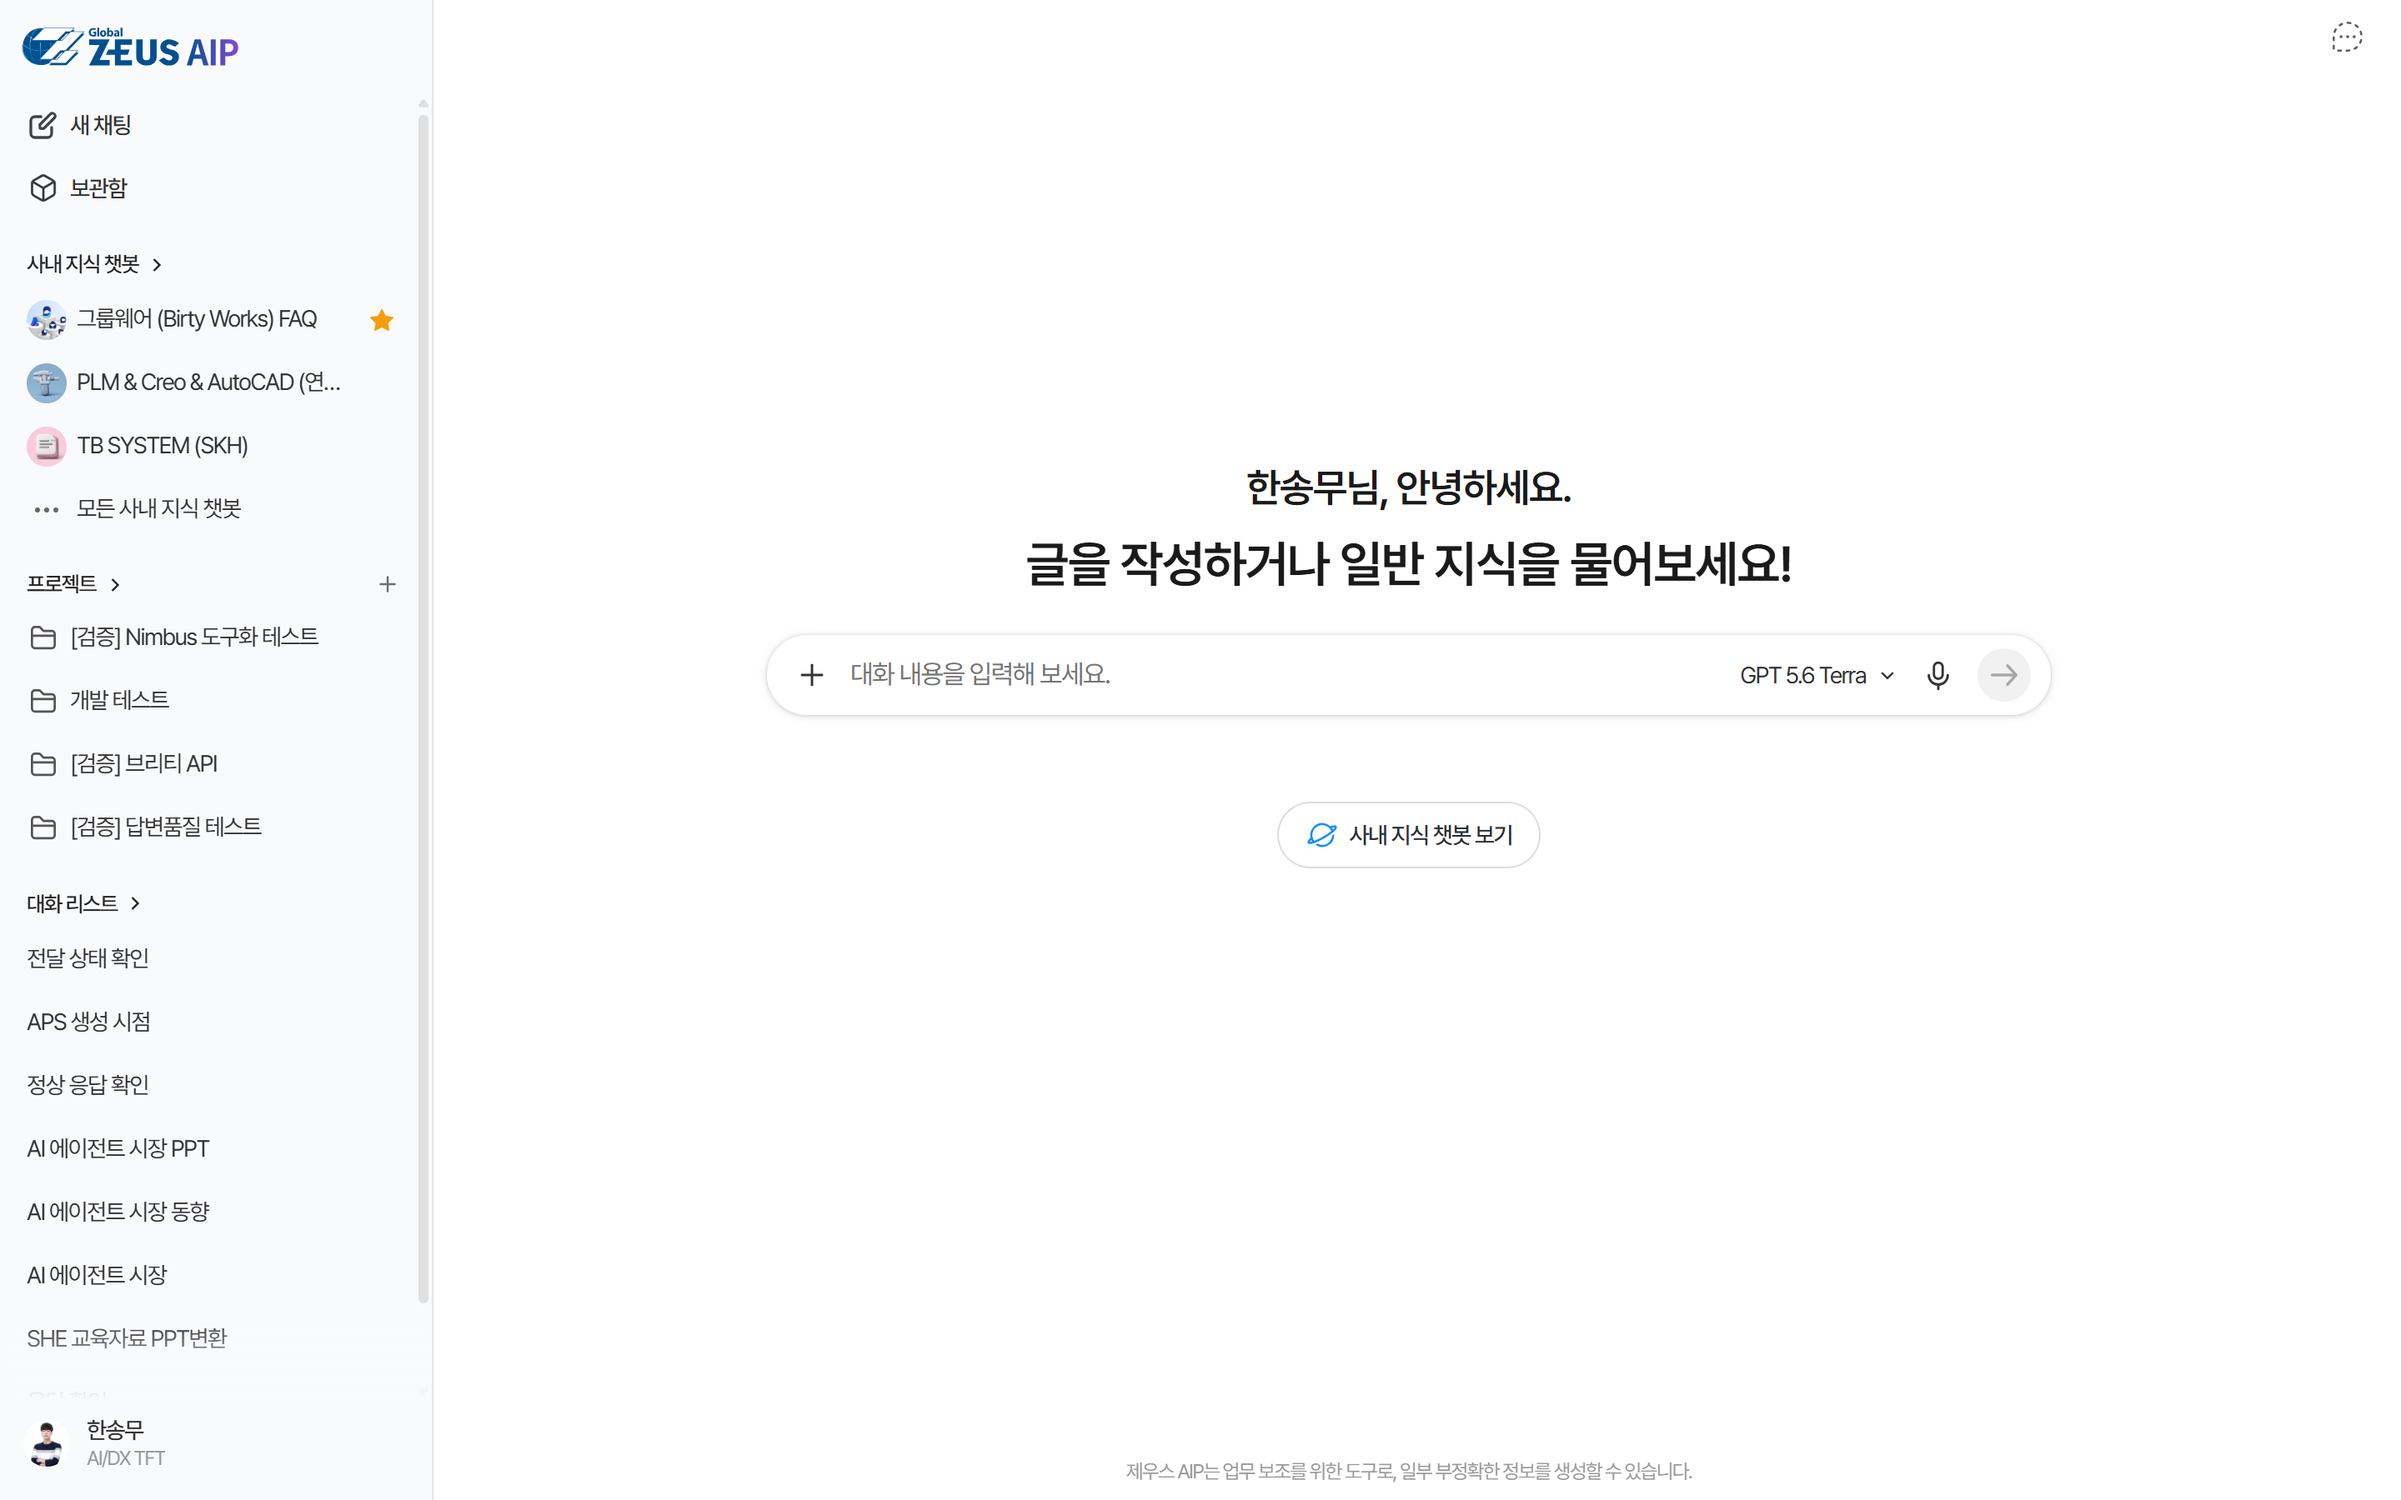
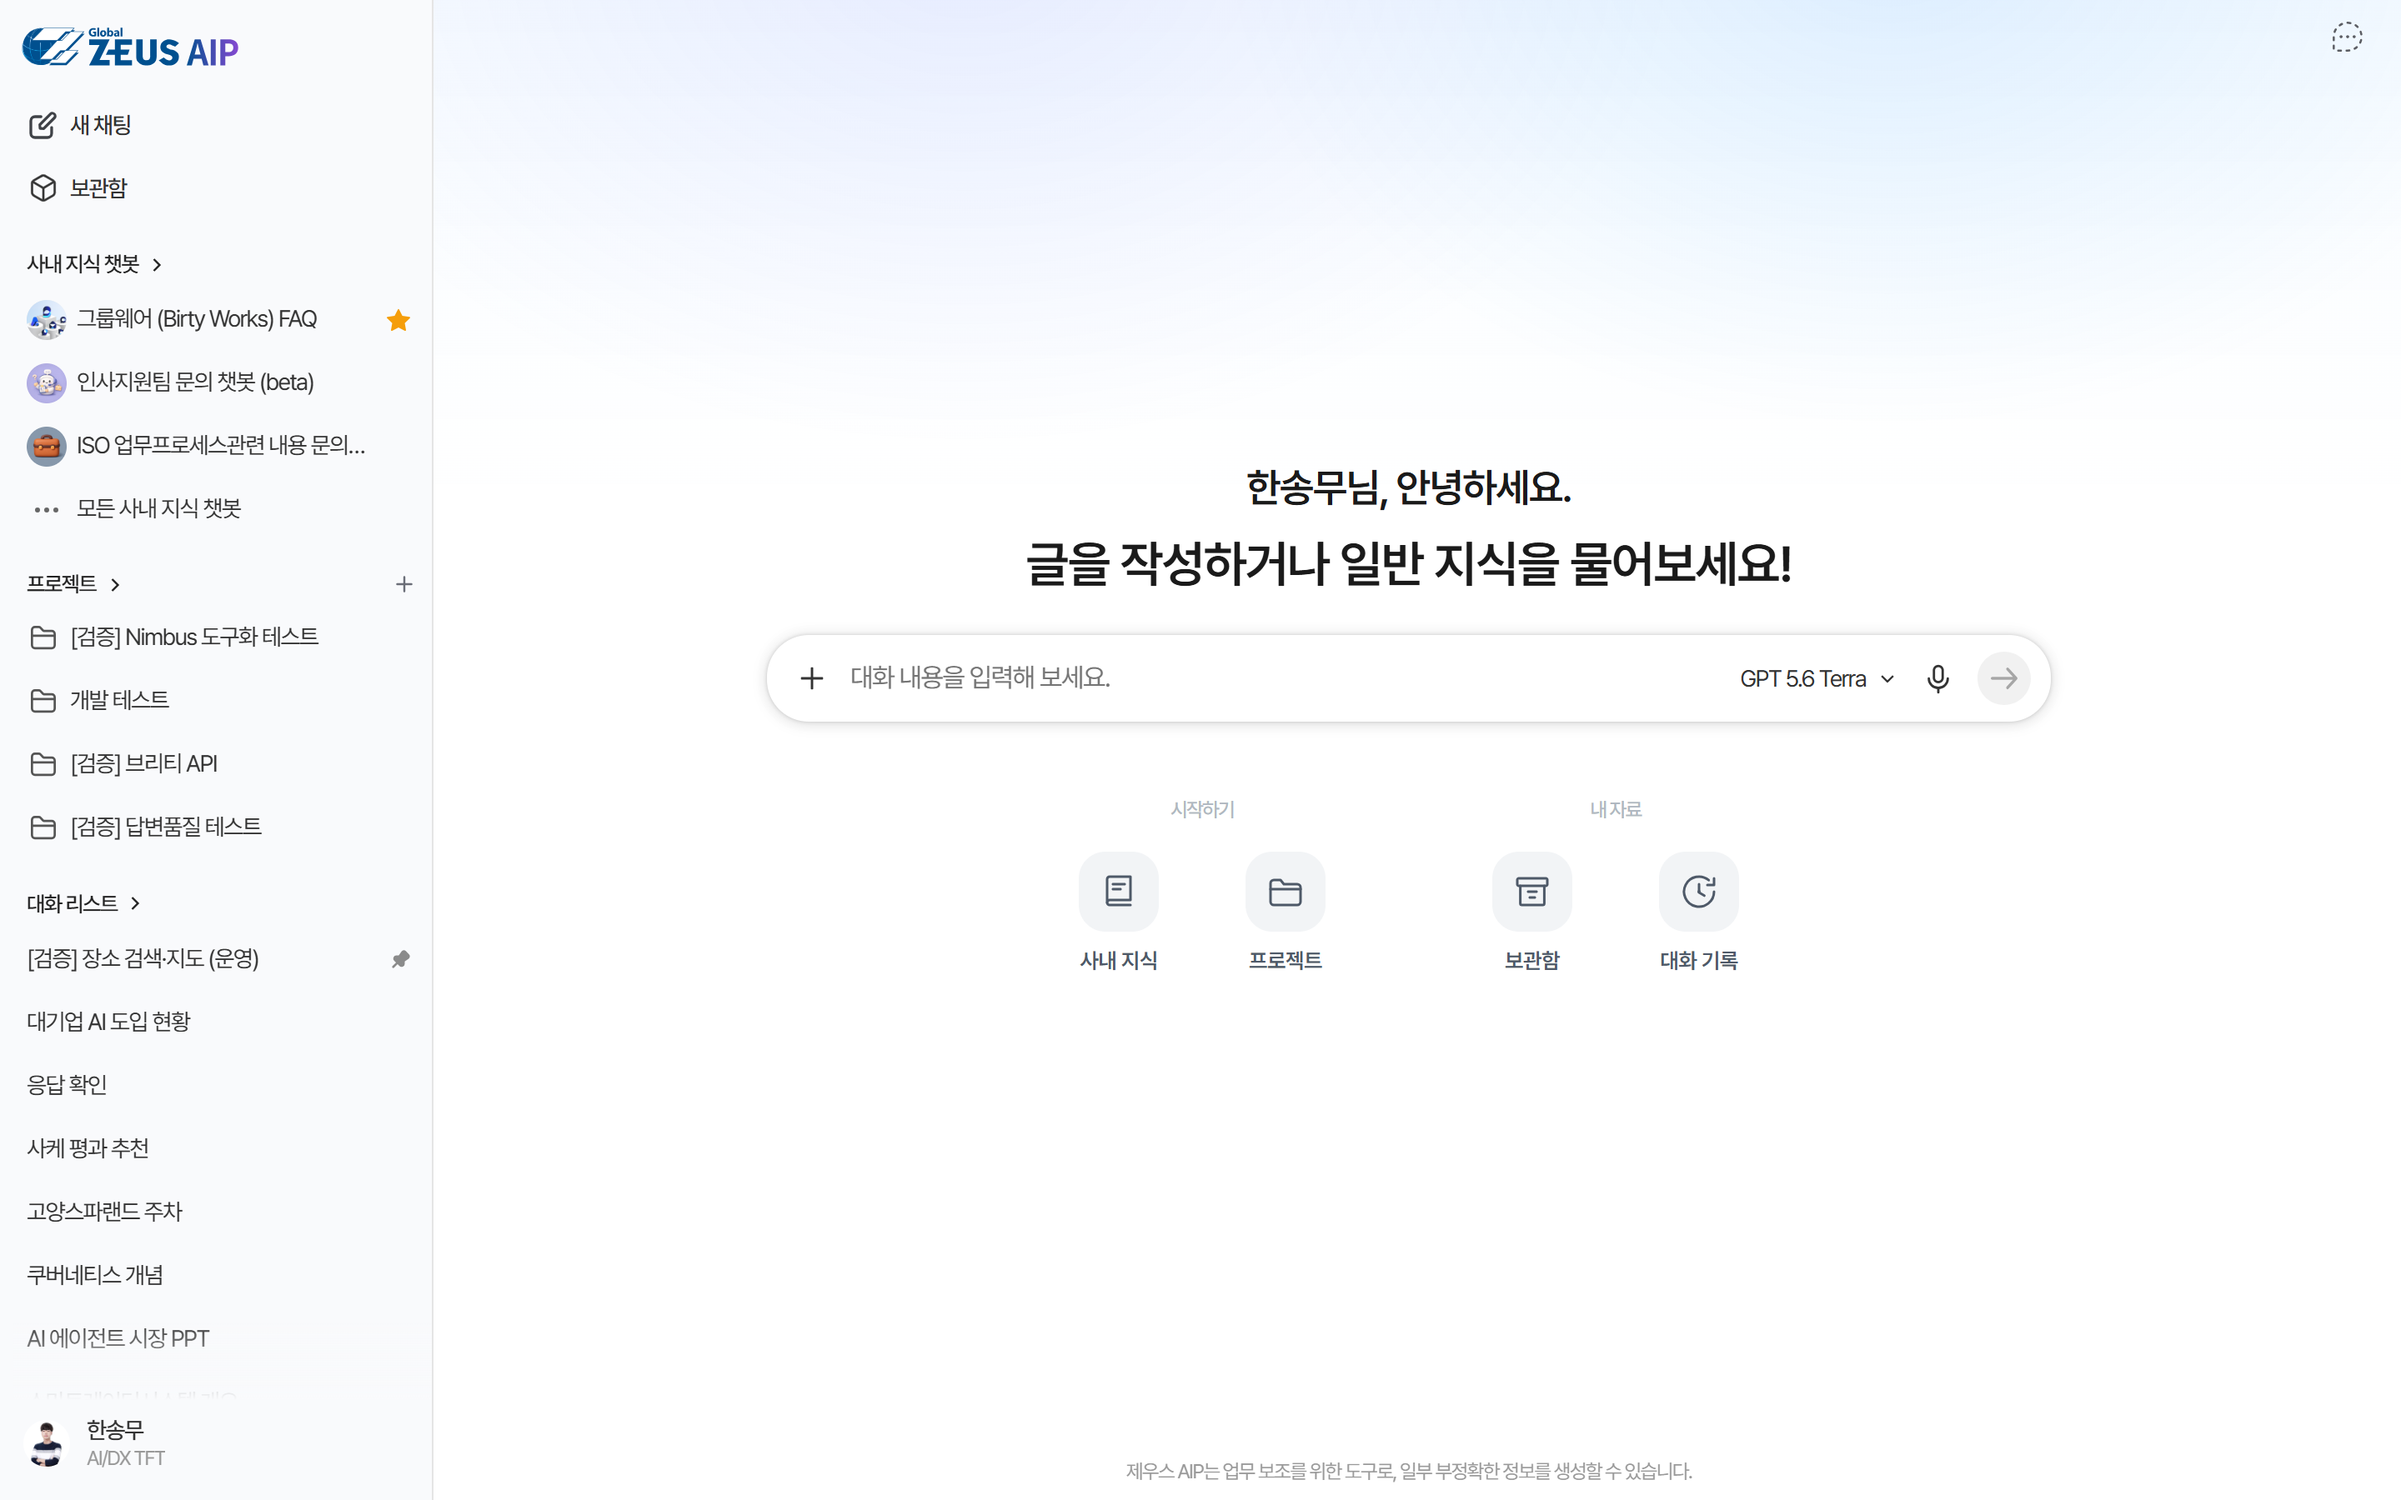
content(ai-platform): 홈 캡처를 지금 화면으로 바꾸고 장소 검색을 넣는다
홈이 목적지 타일로 다시 짜여 옛 캡처가 화면과 달랐다.
문서 생성에는 턴 끝 검수 두 문장을 더한다.

Claude-Session: https://claude.ai/code/session_01KbZREE3BiSkY8uUofBv2k8

diff --git a/src/content/builds.ts b/src/content/builds.ts
@@ -333,6 +333,9 @@ export const builds: Build[] = [
       { type: 'paragraph', text: '근태와 리조트 이용내역을 조회 함수로 등록해, 분류 노드가 도메인을 판별하면 해당 전문 노드가 파라미터를 채워 호출하는 구조로 만들었습니다. 사용자에게 권한이 있을 때만 도구가 붙고, 도메인별로 DB 플래그를 두어 노출 범위를 조절했습니다.' },
       { type: 'paragraph', text: '이 구조는 단일 ReAct로 전환하면서 함께 걷어냈습니다. 도메인마다 분류 규칙과 전문 노드를 늘려야 해서, 도메인이 하나 늘 때마다 분류 정확도를 다시 맞춰야 했기 때문입니다.' },
       { type: 'paragraph', text: '분류 노드 없이 조회 함수를 다시 붙인 것이 지금의 구조입니다. 연차 잔여, 휴가 신청 내역, 근무 요약, 근태 기록을 각각 도구로 등록해 두고, 에이전트가 질문을 보고 직접 고릅니다. 검증된 내부 API만 도구로 노출하는 원칙은 그대로라, 조회 범위와 파라미터만 에이전트가 정합니다. 도구는 사번이 확인된 사내 사용자 세션에만 붙고 게스트에게는 아예 붙지 않습니다. 정형 데이터 조회를 문서 검색과 같은 층에 놓는다는 목표는 이렇게 채웠습니다.' },
+      { type: 'heading', text: '장소 검색' },
+      { type: 'image', src: '/projects/ai-platform/249.png', alt: '장소 검색 화면 - 지도 위 별점 핀과 장소 카드', caption: '지도와 평점 카드' },
+      { type: 'paragraph', text: '장소를 묻는 질문에는 지도와 카드를 함께 그립니다. 지도 위에 후보마다 별점 핀을 세우고, 아래 카드에 사진과 평점, 업종과 주소를 붙였습니다. 글로만 답하면 어디쯤인지 보려고 지도를 다시 열어야 하기 때문입니다.' },
       { type: 'heading', text: '사내 지식 관리' },
       { type: 'image', src: '/projects/ai-platform/125.png', alt: '사내 지식 챗봇 목록 화면', caption: '사내 지식 챗봇 목록' },
       { type: 'image', src: '/projects/ai-platform/126.png', alt: '대화 진입 화면', caption: '대화 진입 화면' },
@@ -352,6 +355,7 @@ export const builds: Build[] = [
       { type: 'paragraph', text: 'PPTX는 에이전트가 좌표 기반 캔버스에 텍스트, 차트, 카드 요소를 직접 배치해 슬라이드마다 다른 구성을 만듭니다. 생성 직후 좌표가 겹치거나 슬라이드 영역을 벗어난 요소를 규칙으로 검출해 바로잡습니다.' },
       { type: 'paragraph', text: '규칙 기반 검사가 못 잡는 시각 결함은 별도의 품질 검증 단계가 봅니다. 생성된 문서를 페이지 이미지로 렌더링해 멀티모달 모델이 텍스트 겹침이나 잘림 같은 결함을 판정하고, 결함이 발견되면 그 내용을 되먹여 문서를 다시 만들게 합니다. 재생성 횟수에 상한을 두어, 무한 반복 없이 결함을 걸러냅니다. 검수는 문서가 채팅에 첨부되기 전에 이뤄지므로, 결함이 있는 버전은 사용자에게 노출되지 않습니다.' },
       { type: 'image', src: '/projects/ai-platform/169.png', alt: '문서 생성 품질 검증 워크플로우 다이어그램', caption: '문서 요청이 파일이 되기까지' },
+      { type: 'paragraph', text: '규칙 검사가 결함을 잡으면 그 자리에서 되돌리기 때문에 시각 검수까지 가는 턴은 많지 않습니다. 그래서 턴이 끝날 때 사용자가 받은 산출물을 한 번 더 보는 검수를 따로 두었습니다.' },
       { type: 'paragraph', text: '백지 생성 외에, 사내에서 쓰는 pptx, xlsx, docx 양식을 업로드하면 원본 레이아웃을 보존한 채 값만 채워 넣는 양식 보존 경로도 따로 두었습니다. 실무 문서의 상당수는 새로 만드는 것이 아니라 정해진 양식을 채우는 일이기 때문입니다.' },
       { type: 'paragraph', text: '정적 문서 외에 인터랙티브 HTML(랜딩 페이지, 대시보드형 보고서)을 만드는 전용 에이전트 루프도 있습니다. 생성물은 채팅 옆 아티팩트 패널에서 바로 렌더링됩니다.' },
       { type: 'image', src: '/projects/ai-platform/181.png', alt: 'HTML 웹페이지 생성 화면 - 채팅 옆 아티팩트 패널 렌더링', caption: 'HTML 리포트를 만든 대화' },

diff --git a/src/content/imageDims.ts b/src/content/imageDims.ts
@@ -43,6 +43,7 @@ export const imageDims: Record<string, { w: number; h: number }> = {
   '/projects/ai-platform/196.png': { w: 2880, h: 1800 },
   '/projects/ai-platform/197.png': { w: 3840, h: 2160 },
   '/projects/ai-platform/24.png': { w: 2880, h: 1800 },
+  '/projects/ai-platform/249.png': { w: 2880, h: 1800 },
   '/projects/attendance/115.png': { w: 1600, h: 900 },
   '/projects/attendance/43.png': { w: 1895, h: 943 },
   '/projects/attendance/45.png': { w: 695, h: 944 },
